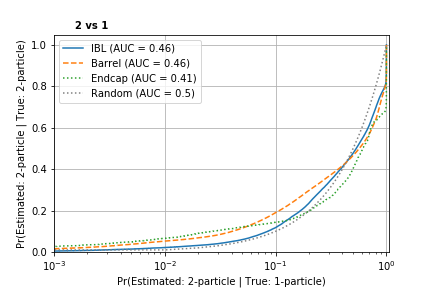
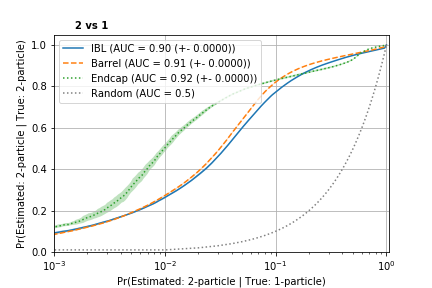
Plot Error Bands on ROC's

Changed region(s): [[0.331, 0.125, 0.9028, 0.7188], [0.1204, 0.5938, 0.8125, 0.875], [0.1204, 0.5, 0.3912, 0.8125]]

diff --git a/scripts/apply.py b/scripts/apply.py
@@ -3,11 +3,16 @@ import argparse
 import logging
 import os
 
-import keras
-import numpy as np
-import root_numpy
+import tensorflow as tf
 
-from PixelNN import keras_utils, utils, validation
+import tensorflow.keras as keras
+import numpy as np
+import h5py as h5
+
+import sys
+sys.path.append('python')
+
+import keras_utils, utils
 
 logging.basicConfig(
     level='INFO',
@@ -25,8 +30,8 @@ def _apply_model(model, nntype, data):
     )
 
     logging.info('Fetching input data for %s', nntype)
-    x_branches, _ = utils.get_branches(nntype)
-    nndata = data[x_branches]
+    #x_branches, _ = utils.get_branches(nntype)
+    nndata = data
 
     logging.info('Applying model to data')
     pred = model.predict(
@@ -61,7 +66,11 @@ def _main():
 
 
     logging.info('Loading data from %s', args.input)
-    data = root_numpy.root2array(args.input, stop=args.max_clusters)
+    with h5.File('data/total.h5', 'r') as data:
+        data_x = data['input'][()]
+        data_y = data['target'][()]
+    
+    #data = root_numpy.root2array(args.input, stop=args.max_clusters)
 
     if args.model:
         models = [args.model]
@@ -72,7 +81,7 @@ def _main():
 
     preds = []
     for model, nntype in zip(models, types):
-        preds.append(_apply_model(model, nntype, data))
+        preds.append(_apply_model(model, nntype, data_x))
 
     if args.output:
         outpath = args.output
@@ -94,12 +103,17 @@ def _main():
         outpath += '.tmp'
 
     logging.info('Saving results to %s', outpath)
-    root_numpy.array2root(
-        outdata,
-        outpath,
-        'NNoutput',
-        'recreate'
-    )
+
+    with h5.File(f'{outpath}/apply_outdata.h5', 'a') as hfile:
+        for key, val in outdata.items():
+            hfile.create_dataset(key, data=np.array(val))
+
+    #root_numpy.array2root(
+    #    outdata,
+    #    outpath,
+    #    'NNoutput',
+    #    'recreate'
+    #)
 
     if args.type.startswith('pos'):
         logging.info(
@@ -125,7 +139,7 @@ def _main():
 ### number NN
 
 
-def _do_number(data, pred, thrs):
+def _do_number(data_x, data_y, pred, thrs):
 
     outdata = np.zeros(
         (pred.shape[0],),
@@ -144,9 +158,9 @@ def _do_number(data, pred, thrs):
     )
 
     outdata['Output_number'] = pred / np.sum(pred, axis=1, keepdims=True)
-    outdata['Output_number_true'] = 1 * data['NN_nparticles1'] + \
-                                    2 * data['NN_nparticles2'] + \
-                                    3 * data['NN_nparticles3']
+    outdata['Output_number_true'] = 1 * data_y[:,0] + \
+                                    2 * data_y[:,1] + \
+                                    3 * data_y[:,2]
 
     outdata['Output_number_estimated'][
         np.where(np.logical_and(pred[:,1] < thrs[0], pred[:,2] < thrs[1]))
@@ -168,8 +182,10 @@ def _do_number(data, pred, thrs):
         'cluster_size_Y'
     ]
 
-    for field in auxfields:
-        outdata[field] = data[field]
+    outdata['NN_layer'] = data_x[:, 56]
+    outdata['NN_barrelEC'] = data_x[:, 57]
+    #for field in auxfields:
+    #    outdata[field] = data_x[field]
 
     return outdata
 

diff --git a/python/keras_utils.py b/python/keras_utils.py
@@ -82,8 +82,8 @@ def _sigmoid2(x):
     )
 
 
-#Sigmoid2 = keras.layers.Activation(_sigmoid2)
-Sigmoid2 = keras.layers.Activation(keras.activations.sigmoid)
+Sigmoid2 = keras.layers.Activation(_sigmoid2)
+#Sigmoid2 = keras.layers.Activation(keras.activations.sigmoid)
 
 
 def _config(layer, config):
